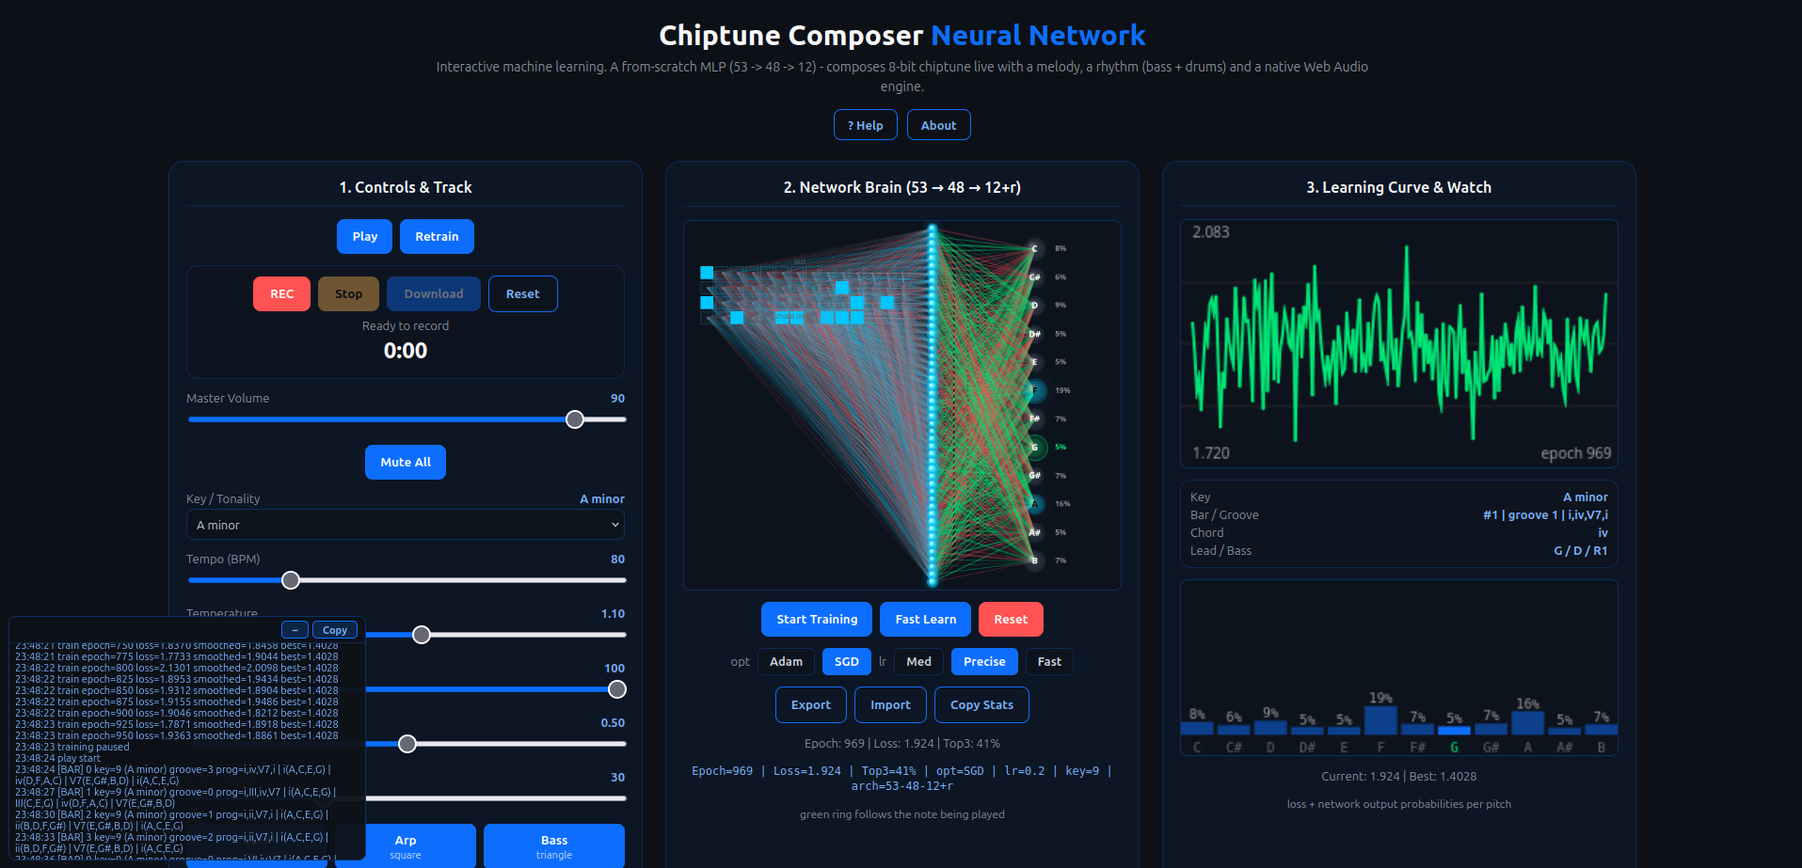
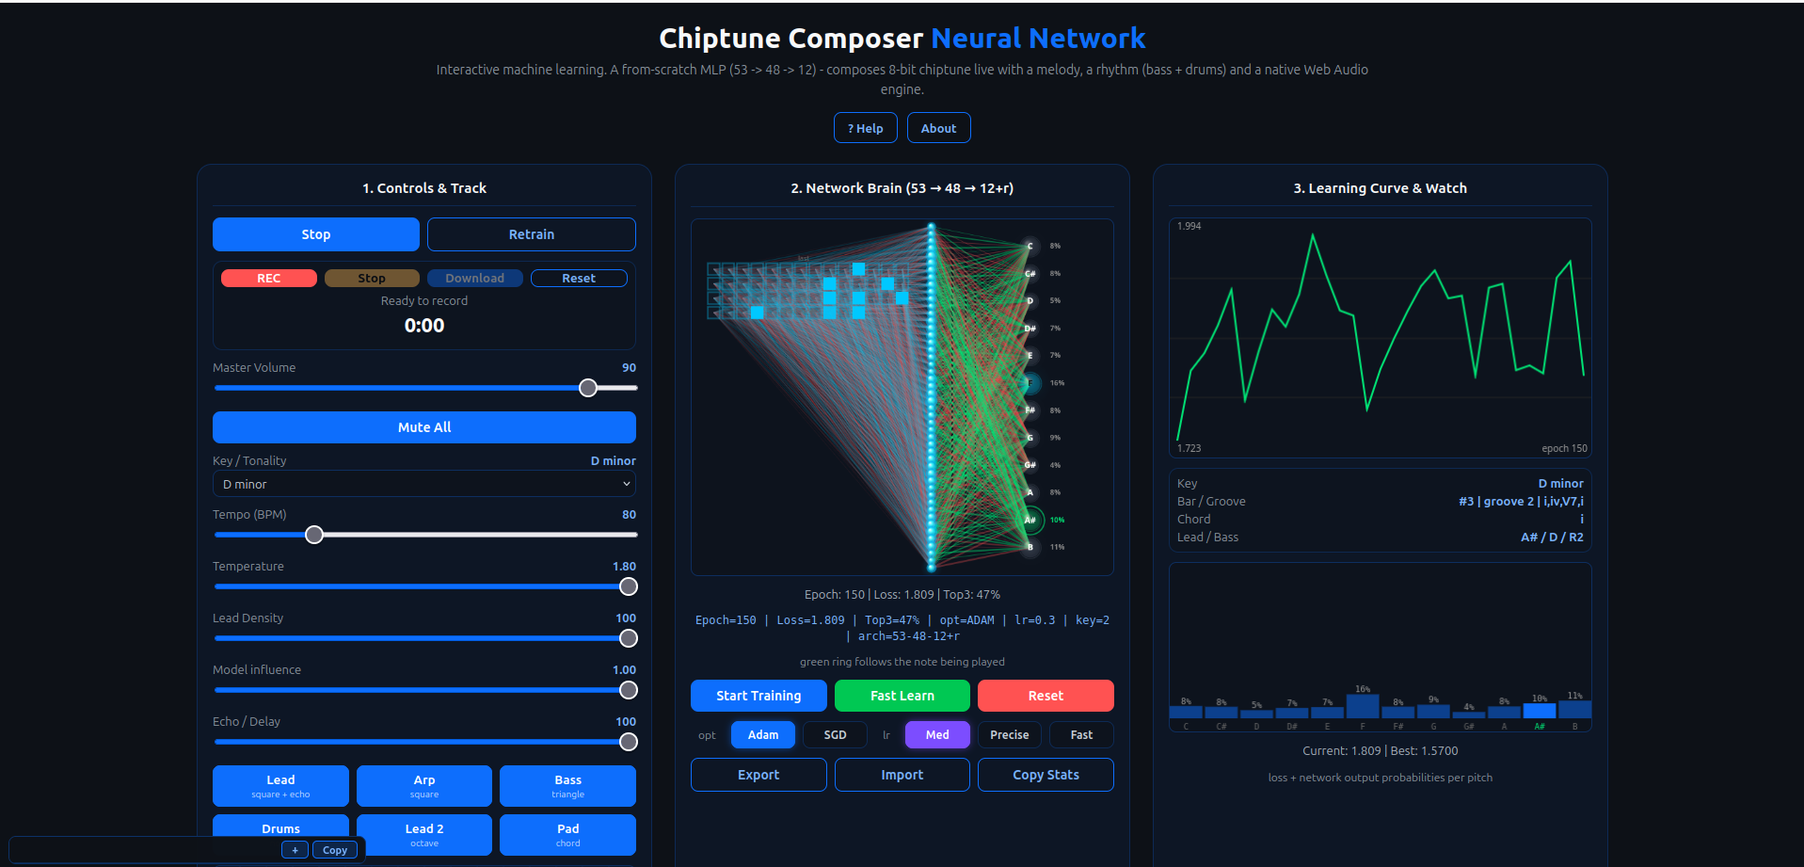
feat: improve chiptune-composer-neural-network.html

Changed region(s): [[0.0, 0.0, 1.0, 1.0], [0.6162, 0.1824, 0.8935, 0.6688]]

diff --git a/css/chiptune-composer-neural-network.css b/css/chiptune-composer-neural-network.css
@@ -1,110 +1,149 @@
-* { box-sizing: border-box; font-family: 'Segoe UI', system-ui, -apple-system, sans-serif; -webkit-tap-highlight-color: transparent; }
+* {
+    box-sizing: border-box;
+    font-family: 'Segoe UI', system-ui, -apple-system, sans-serif;
+    -webkit-tap-highlight-color: transparent;
+}
 html, body { margin: 0; }
 body { background: #0d1117; color: #e0e0e0; min-height: 100vh; padding: 20px; }
-.page { max-width: 1560px; margin: 0 auto; display: flex; flex-direction: column; align-items: center; width: 100%; }
+.page { max-width: 1500px; margin: 0 auto; display: flex; flex-direction: column; align-items: center; width: 100%; }
 .site-head { text-align: center; margin-bottom: 22px; max-width: 1000px; width: 100%; }
 .site-title { margin: 0 0 6px; font-size: 30px; font-weight: 800; color: #f8f9fa; }
 .site-title .hi { color: #0d6efd; }
 .site-sub { color: #8b949e; font-size: 14px; margin: 0 0 14px; line-height: 1.5; }
 .head-btns { display: flex; gap: 10px; justify-content: center; flex-wrap: wrap; }
+.head-btns button { background: transparent; color: #7ab3ff; border: 1px solid #0d6efd; padding: 8px 14px; font-size: 13px; border-radius: 8px; cursor: pointer; }
+.head-btns button:hover { background: rgba(13, 110, 253, 0.15); }
 
 .workspace { display: grid; grid-template-columns: repeat(3, minmax(0, 1fr)); gap: 24px; width: 100%; align-items: stretch; }
-.panel { background: rgba(13,110,253,0.06); border: 1px solid rgba(13,110,253,0.22); border-radius: 16px; padding: 18px; display: flex; flex-direction: column; gap: 12px; min-width: 0; }
-.panel h3 { margin: 0 0 2px; font-size: 16px; font-weight: 700; color: #f8f9fa; text-align: center; padding-bottom: 10px; border-bottom: 1px solid rgba(13,110,253,0.2); }
-.row { display: flex; flex-wrap: wrap; gap: 8px; justify-content: center; align-items: center; }
+.panel { background: rgba(13, 110, 253, 0.06); border: 1px solid rgba(13, 110, 253, 0.22); border-radius: 16px; padding: 16px; display: flex; flex-direction: column; gap: 10px; min-width: 0; }
+.panel h3 { margin: 0 0 2px; font-size: 15px; font-weight: 700; color: #f8f9fa; text-align: center; padding-bottom: 10px; border-bottom: 1px solid rgba(13, 110, 253, 0.2); }
 
 .canvas-area { display: flex; justify-content: center; width: 100%; }
-canvas { background: rgba(13,17,23,0.6); border-radius: 8px; border: 1px solid rgba(13,110,253,0.3); max-width: 100%; height: auto; display: block; }
-#netCanvas, #trackCanvas, #lossCanvas, #distCanvas { width: 100%; height: auto; }
+canvas { background: rgba(13, 17, 23, 0.6); border-radius: 8px; border: 1px solid rgba(13, 110, 253, 0.3); max-width: 100%; height: auto; display: block; }
+#netCanvas { width: 640px; max-width: 100%; }
+#trackCanvas, #lossCanvas, #distCanvas { width: 100%; height: auto; }
 
-button { border: none; border-radius: 8px; font-weight: 700; cursor: pointer; user-select: none; font-family: inherit; }
+button { border: none; border-radius: 8px; font-weight: 600; cursor: pointer; user-select: none; font-family: inherit; }
 button:disabled { opacity: 0.4; cursor: not-allowed; }
-.btn { padding: 11px 16px; }
+button:active { transform: scale(.97); }
+.btn { padding: 9px 12px; font-size: 14px; }
 .btn-primary { background: #0d6efd; color: #fff; }
-.btn-green { background: #0d6efd; color: #fff; }
+.btn-green { background: #00c853; color: #fff; }
+.btn-green:hover { background: #00b248; color: #fff; }
 .btn-red { background: #ff5252; color: #fff; }
+.btn-red:hover { background: #e64545; color: #fff; }
 .btn-info { background: transparent; color: #7ab3ff; border: 1px solid #0d6efd; }
-.head-btns button { background: transparent; color: #7ab3ff; border: 1px solid #0d6efd; padding: 8px 14px; font-size: 13px; }
-.head-btns button:hover, .btn-info:hover { background: rgba(13,110,253,0.15); }
-.opt-btn, .lr-btn { background: rgba(13,17,23,0.6); color: #c9d1d9; border: 1px solid rgba(13,110,253,0.25); border-radius: 6px; padding: 6px 12px; font-size: 13px; }
-.opt-btn.active, .lr-btn.active { background: #0d6efd; color: #fff; }
-.lbl { color: #8b949e; font-size: 13px; }
-button:active { transform: scale(.96); }
+.btn-info:hover { background: rgba(13, 110, 253, 0.15); }
+.btn-block { width: 100%; display: block; }
 
-.recbox { border: 1px solid rgba(13,110,253,0.22); border-radius: 12px; padding: 10px; background: rgba(13,17,23,0.4); display: flex; flex-direction: column; gap: 6px; }
+.btn-group { display: flex; flex-wrap: wrap; gap: 8px; width: 100%; }
+.btn-group > * { flex: 1 1 0; min-width: 0; border-radius: 8px; }
+.btn-group .lbl { flex: 0 0 auto; display: inline-flex; align-items: center; padding: 0 8px; }
+
+.opt-btn, .lr-btn {
+    background: rgba(13, 17, 23, 0.6);
+    color: #c9d1d9;
+    border: 1px solid rgba(13, 110, 253, 0.25);
+    border-radius: 8px;
+    padding: 7px 10px;
+    font-size: 12px;
+    cursor: pointer;
+}
+.opt-btn:hover, .lr-btn:hover { background: rgba(13, 110, 253, 0.15); color: #fff; }
+.opt-btn.active {
+    background: #0d6efd;
+    color: #fff;
+    border-color: #0d6efd;
+    font-weight: 700;
+    box-shadow: 0 0 8px rgba(13, 110, 253, 0.5);
+}
+.lr-btn.active {
+    background: #7c4dff;
+    color: #fff;
+    border-color: #7c4dff;
+    font-weight: 700;
+    box-shadow: 0 0 8px rgba(124, 77, 255, 0.5);
+}
+.lbl { color: #8b949e; font-size: 12px; white-space: nowrap; }
+
+.recbox { border: 1px solid rgba(13, 110, 253, 0.22); border-radius: 10px; padding: 8px; background: rgba(13, 17, 23, 0.4); display: flex; flex-direction: column; gap: 6px; }
 .rec-status { font-size: 13px; color: #8b949e; text-align: center; }
-.rec-time { font-size: 24px; font-weight: 800; color: #f8f9fa; text-align: center; font-variant-numeric: tabular-nums; }
-.rec-file { font-size: 12px; color: #7ab3ff; text-align: center; font-family: monospace; }
-.rec-btn { background: #ff5252; color: #fff; padding: 11px 18px; }
+.rec-time { font-size: 22px; font-weight: 800; color: #f8f9fa; text-align: center; font-variant-numeric: tabular-nums; }
+.rec-file { font-size: 11px; color: #7ab3ff; text-align: center; font-family: monospace; }
+.rec-btn { background: #ff5252; color: #fff; }
 .rec-btn.recording { animation: recblink 1s infinite; }
-@keyframes recblink { 0%,100% { box-shadow: 0 0 10px 2px rgba(255,60,50,.7); } 50% { box-shadow: 0 0 2px 0 rgba(255,60,50,.2); } }
-.stop-btn { background: #ffb74d; color: #000; padding: 11px 18px; }
-.dl-btn { background: #0d6efd; color: #fff; padding: 11px 18px; }
-.reset-btn { background: transparent; color: #7ab3ff; border: 1px solid #0d6efd; padding: 11px 18px; }
+@keyframes recblink {
+    0%, 100% { box-shadow: 0 0 10px 2px rgba(255, 60, 50, .7); }
+    50% { box-shadow: 0 0 2px 0 rgba(255, 60, 50, .2); }
+}
+.stop-btn { background: #ffb74d; color: #000; }
+.dl-btn { background: #0d6efd; color: #fff; }
+.reset-btn { background: transparent; color: #7ab3ff; border: 1px solid #0d6efd; }
 
-.slider label { display: flex; justify-content: space-between; font-size: 13px; color: #8b949e; margin-bottom: 4px; }
+.slider label { display: flex; justify-content: space-between; font-size: 13px; color: #8b949e; margin-bottom: 3px; }
 .slider label b { color: #7ab3ff; }
 input[type=range] { width: 100%; accent-color: #0d6efd; cursor: pointer; }
-select { width: 100%; padding: 8px 10px; background: rgba(13,17,23,0.6); color: #c9d1d9; border: 1px solid rgba(13,110,253,0.3); border-radius: 8px; font-size: 13px; cursor: pointer; }
+select { width: 100%; padding: 6px 10px; background: rgba(13, 17, 23, 0.6); color: #c9d1d9; border: 1px solid rgba(13, 110, 253, 0.3); border-radius: 8px; font-size: 13px; cursor: pointer; }
 
 .mutes { display: grid; grid-template-columns: repeat(3, 1fr); gap: 8px; }
-.mute { background: rgba(13,17,23,0.6); color: #7ab3ff; border: 1px solid rgba(13,110,253,0.3); border-radius: 8px; padding: 9px; display: flex; flex-direction: column; }
-.mute .d { color: #8b949e; font-size: 11px; font-weight: 400; margin-top: 2px; }
+.mute { background: rgba(13, 17, 23, 0.6); color: #7ab3ff; border: 1px solid rgba(13, 110, 253, 0.3); border-radius: 8px; padding: 7px; display: flex; flex-direction: column; }
+.mute .d { color: #8b949e; font-size: 10px; font-weight: 400; margin-top: 2px; }
 .mute.on { background: #0d6efd; color: #fff; border-color: #0d6efd; }
-.mute.on .d { color: rgba(255,255,255,0.8); }
+.mute.on .d { color: rgba(255, 255, 255, 0.8); }
 
-.legend { display: flex; gap: 12px; justify-content: center; font-size: 12px; color: #8b949e; flex-wrap: wrap; }
+.legend { display: flex; gap: 10px; justify-content: center; font-size: 11px; color: #8b949e; flex-wrap: wrap; }
 .legend span { display: inline-flex; align-items: center; gap: 5px; }
 .legend i { width: 10px; height: 10px; border-radius: 2px; display: inline-block; }
-.bars { display: flex; gap: 6px; align-items: flex-end; justify-content: center; height: 40px; }
-.bar { width: 100%; flex: 1; background: rgba(13,110,253,0.15); border-radius: 4px; display: flex; align-items: flex-end; overflow: hidden; }
-.bar i { display: block; width: 100%; background: linear-gradient(180deg,#0d6efd,#58a6ff); height: 0%; border-radius: 4px; }
-.bar[data-ch="3"] i { background: linear-gradient(180deg,#f0ad4e,#ff7b3a); }
-.bar[data-ch="4"] i { background: linear-gradient(180deg,#2ee6a8,#00e676); }
-.bar[data-ch="5"] i { background: linear-gradient(180deg,#b388ff,#7c4dff); }
+.bars { display: flex; gap: 6px; align-items: flex-end; justify-content: center; height: 36px; }
+.bar { width: 100%; flex: 1; background: rgba(13, 110, 253, 0.15); border-radius: 4px; display: flex; align-items: flex-end; overflow: hidden; }
+.bar i { display: block; width: 100%; background: linear-gradient(180deg, #0d6efd, #58a6ff); height: 0%; border-radius: 4px; }
+.bar[data-ch="3"] i { background: linear-gradient(180deg, #f0ad4e, #ff7b3a); }
+.bar[data-ch="4"] i { background: linear-gradient(180deg, #2ee6a8, #00e676); }
+.bar[data-ch="5"] i { background: linear-gradient(180deg, #b388ff, #7c4dff); }
 
-.status-box { border: 1px solid rgba(13,110,253,0.22); border-radius: 12px; padding: 10px; background: rgba(13,17,23,0.4); display: flex; flex-direction: column; gap: 4px; width: 100%; }
+.status-box { border: 1px solid rgba(13, 110, 253, 0.22); border-radius: 10px; padding: 8px; background: rgba(13, 17, 23, 0.4); display: flex; flex-direction: column; gap: 4px; width: 100%; }
 .status-box .s-row { display: flex; justify-content: space-between; gap: 10px; font-size: 13px; }
 .status-box .s-row span { color: #8b949e; }
 .status-box .s-row b { color: #7ab3ff; }
 
-.stats { font-size: 13px; color: #8b949e; text-align: center; line-height: 1.4; }
+.stats { font-size: 13px; color: #aab4bf; text-align: center; line-height: 1.4; }
 .stats.raw { color: #7ab3ff; font-family: monospace; font-size: 12px; cursor: pointer; }
 .hint { font-size: 12px; color: #8b949e; text-align: center; line-height: 1.5; }
+.toast { opacity: 0; transform: translateY(4px); transition: opacity .2s, transform .2s; background: #1f3227; border: 1px solid #00e676; color: #00e676; font-weight: bold; border-radius: 8px; padding: 7px 13px; margin-top: 8px; font-size: 13px; text-align: center; }
+.toast.show { opacity: 1; transform: translateY(0); }
 
-.modal-overlay { display: none; position: fixed; inset: 0; background: rgba(0,0,0,0.75); z-index: 100; padding: 16px; overflow-y: auto; }
+.modal-overlay { display: none; position: fixed; inset: 0; background: rgba(0, 0, 0, 0.75); z-index: 100; padding: 16px; overflow-y: auto; }
 .modal-overlay.open { display: flex; align-items: flex-start; justify-content: center; }
-.modal { position: relative; background: #161b22; border: 1px solid rgba(13,110,253,0.3); border-radius: 12px; max-width: 560px; width: 100%; padding: 20px; margin: 20px auto; max-height: calc(100vh - 40px); overflow-y: auto; }
+.modal { position: relative; background: #161b22; border: 1px solid rgba(13, 110, 253, 0.3); border-radius: 12px; max-width: 560px; width: 100%; padding: 20px; margin: 20px auto; max-height: calc(100vh - 40px); overflow-y: auto; }
 .modal h3 { color: #7ab3ff; margin: 0 30px 12px 0; }
 .modal p, .modal li { font-size: 14px; line-height: 1.55; color: #c9d1d9; }
 .modal ol, .modal ul { padding-left: 22px; margin: 8px 0; }
 .modal b { color: #fff; }
 .modal .accent { color: #58a6ff; font-weight: bold; }
-.modal-close { position: absolute; top: 10px; right: 10px; padding: 6px 12px; background: rgba(13,17,23,0.6); color: #fff; border: 1px solid rgba(13,110,253,0.3); border-radius: 6px; font-size: 16px; }
-.ab-head { border-bottom: 1px solid rgba(13,110,253,0.25); padding-bottom: 10px; margin-bottom: 12px; }
+.modal-close { position: absolute; top: 10px; right: 10px; padding: 6px 12px; background: rgba(13, 17, 23, 0.6); color: #fff; border: 1px solid rgba(13, 110, 253, 0.3); border-radius: 6px; font-size: 16px; cursor: pointer; }
+.ab-head { border-bottom: 1px solid rgba(13, 110, 253, 0.25); padding-bottom: 10px; margin-bottom: 12px; }
 .ab-name { font-size: 18px; font-weight: bold; color: #fff; }
 .ab-ver { font-size: 13px; color: #7ab3ff; margin-top: 2px; }
-.ab-meta { margin-top: 14px; padding-top: 12px; border-top: 1px solid rgba(13,110,253,0.2); font-size: 13px; color: #c9d1d9; line-height: 1.7; }
+.ab-meta { margin-top: 14px; padding-top: 12px; border-top: 1px solid rgba(13, 110, 253, 0.2); font-size: 13px; color: #c9d1d9; line-height: 1.7; }
 .ab-meta a { color: #7ab3ff; text-decoration: none; }
 .ab-meta a:hover { text-decoration: underline; }
 .site-foot { margin-top: 24px; text-align: center; font-size: 13px; color: #8b949e; }
 .site-foot a { color: #7ab3ff; text-decoration: none; }
 
 @media (max-width: 1000px) and (orientation: portrait) {
-  body { padding: 10px; }
-  .site-head { margin-bottom: 14px; }
-  .workspace { grid-template-columns: 1fr; gap: 16px; }
-  .panel { padding: 14px; }
-  .site-title { font-size: 24px; }
+    body { padding: 10px; }
+    .site-head { margin-bottom: 14px; }
+    .workspace { grid-template-columns: 1fr; gap: 16px; }
+    .panel { padding: 14px; }
+    .site-title { font-size: 24px; }
 }
 @media (max-width: 1350px) and (min-width: 1001px) {
-  .workspace { gap: 16px; }
-  .panel { padding: 14px; }
+    .workspace { gap: 16px; }
+    .panel { padding: 14px; }
 }
 @media (max-width: 1000px) and (orientation: landscape) {
-  body { padding: 12px 16px; }
-  .workspace { grid-template-columns: repeat(3, minmax(0,1fr)); gap: 12px; }
-  .panel { padding: 12px; }
-  .mutes { grid-template-columns: repeat(2,1fr); }
-  button { padding: 10px 12px; font-size: 14px; }
+    body { padding: 12px 16px; }
+    .workspace { grid-template-columns: repeat(3, minmax(0, 1fr)); gap: 12px; }
+    .panel { padding: 12px; }
+    .mutes { grid-template-columns: repeat(2, 1fr); }
 }

diff --git a/js/chiptune-composer-neural-network.js b/js/chiptune-composer-neural-network.js
@@ -323,6 +323,22 @@ var netCanvas=document.getElementById('netCanvas'), nCtx=netCanvas.getContext('2
 var lossCanvas=document.getElementById('lossCanvas'), lCtx=lossCanvas.getContext('2d');
 var trackCanvas=document.getElementById('trackCanvas'), tCtx=trackCanvas.getContext('2d');
 var distCanvas=document.getElementById('distCanvas'), dCtx=distCanvas?distCanvas.getContext('2d'):null;
+var DPR = window.devicePixelRatio || 1;
+var NET_W = netCanvas.width, NET_H = netCanvas.height;
+var fitTimer = 0;
+function fitCanvases() {
+  var r;
+  netCanvas.width = Math.round(NET_W * DPR);
+  netCanvas.height = Math.round(NET_H * DPR);
+  nCtx.setTransform(DPR, 0, 0, DPR, 0, 0);
+  r = trackCanvas.getBoundingClientRect();
+  if (r.width > 0) { trackCanvas.width = Math.round(r.width * DPR); trackCanvas.height = Math.round(r.width * 220 / 620 * DPR); }
+  r = lossCanvas.getBoundingClientRect();
+  if (r.width > 0) { lossCanvas.width = Math.round(r.width * DPR); lossCanvas.height = Math.round(r.width * 170 / 300 * DPR); }
+  r = distCanvas.getBoundingClientRect();
+  if (r.width > 0) { distCanvas.width = Math.round(r.width * DPR); distCanvas.height = Math.round(r.width * 120 / 300 * DPR); }
+}
+window.addEventListener('resize', function () { clearTimeout(fitTimer); fitTimer = setTimeout(fitCanvases, 60); });
 var barsWrap=document.getElementById('barsWrap'), barEls=[];
 (function(){ for(var i=0;i<6;i++){ var d=document.createElement('div'); d.className='bar'; d.setAttribute('data-ch',i); d.innerHTML='<i></i>'; barsWrap.appendChild(d); } barEls=Array.prototype.slice.call(barsWrap.children); })();
 var barAct=[[0,0],[0,0],[0,0],[0,0],[0,0],[0,0]];
@@ -332,11 +348,11 @@ function drawSynapse(a,b,w,pos,neg,maxW,wMax){ nCtx.beginPath(); nCtx.moveTo(a.x
 function drawOrb(x,y,v,baseR,phase,col){ if(!isFinite(v)) v=0; var a=Math.max(0,Math.min(1,v)); var pulse=1+0.1*Math.sin(anim*3.4+phase); var rad=Math.max(2,baseR*(0.6+0.85*a)*pulse); if(!isFinite(rad)) rad=baseR; var halo=rad*2.9,g; g=nCtx.createRadialGradient(x,y,rad*0.2,x,y,halo); g.addColorStop(0,rgba(col[0],col[1],col[2],0.4*a)); g.addColorStop(0.6,rgba(col[0],col[1],col[2],0.12*a)); g.addColorStop(1,rgba(col[0],col[1],col[2],0)); nCtx.fillStyle=g; nCtx.beginPath(); nCtx.arc(x,y,halo,0,Math.PI*2); nCtx.fill(); g=nCtx.createRadialGradient(x-rad*0.35,y-rad*0.4,rad*0.1,x,y,rad); g.addColorStop(0,'rgba(255,255,255,0.95)'); g.addColorStop(0.38,rgba(Math.min(255,col[0]+80),Math.min(255,col[1]+80),Math.min(255,col[2]+80),0.95)); g.addColorStop(1,rgba(col[0],col[1],col[2],0.6)); nCtx.fillStyle=g; nCtx.beginPath(); nCtx.arc(x,y,rad,0,Math.PI*2); nCtx.fill(); nCtx.beginPath(); nCtx.arc(x,y,rad*1.16,0,Math.PI*2); nCtx.strokeStyle=rgba(col[0],col[1],col[2],0.3+0.55*a); nCtx.lineWidth=1+1.4*a; nCtx.stroke(); }
 function drawOutputOrb(x,y,v,baseR,phase,col,winner){ if(!isFinite(v)) v=0; var a=Math.max(0,Math.min(1,v)); var pulse=1+0.1*Math.sin(anim*2.8+phase*1.1)+(winner?0.1*Math.sin(anim*7):0); var rad=baseR*(0.55+0.6*a)*pulse; if(!isFinite(rad)) rad=baseR; var halo=rad*2.1,g; g=nCtx.createRadialGradient(x,y,rad*0.2,x,y,halo); g.addColorStop(0,rgba(col[0],col[1],col[2],0.32*a)); g.addColorStop(1,rgba(col[0],col[1],col[2],0)); nCtx.fillStyle=g; nCtx.beginPath(); nCtx.arc(x,y,halo,0,Math.PI*2); nCtx.fill(); g=nCtx.createRadialGradient(x-rad*0.32,y-rad*0.38,rad*0.1,x,y,rad); g.addColorStop(0,rgba(255,255,255,0.3+0.4*a)); g.addColorStop(0.5,rgba(col[0],col[1],col[2],0.3+0.55*a)); g.addColorStop(1,rgba(col[0],col[1],col[2],0.2+0.45*a)); nCtx.fillStyle=g; nCtx.beginPath(); nCtx.arc(x,y,rad,0,Math.PI*2); nCtx.fill(); nCtx.beginPath(); nCtx.arc(x,y,rad*1.1,0,Math.PI*2); nCtx.strokeStyle=rgba(col[0],col[1],col[2],0.25+0.6*a); nCtx.lineWidth=1+1.6*a; nCtx.stroke(); if(winner){ var wr=rad*1.34+2.5*Math.sin(anim*5); nCtx.beginPath(); nCtx.arc(x,y,wr,0,Math.PI*2); nCtx.strokeStyle=rgba(0,230,118,0.45+0.3*Math.sin(anim*5)); nCtx.lineWidth=2; nCtx.stroke(); } }
 function drawNetwork(){
-  nCtx.clearRect(0,0,netCanvas.width,netCanvas.height);
+  nCtx.clearRect(0,0,NET_W,NET_H);
   var isMobile=window.innerWidth<=BREAKPOINT, cols=14, rows=4, cell=isMobile?16:19, gap=3, gx0=24, gy0=66, inPts=[];
   for(var r=0;r<rows;r++) for(var c=0;c<cols;c++){ var idx=r*cols+c; if(idx>=IN) break; inPts.push({x:gx0+c*(cell+gap),y:gy0+r*(cell+gap),act:nn.lastIn[idx]}); }
-  var hidX=gx0+cols*(cell+gap)+32, hidStep=netCanvas.height/(HID+1), hidY=[]; for(var i=0;i<HID;i++) hidY.push(hidStep*(i+1));
-  var outX=hidX+150, outStep=netCanvas.height/(OUT+1), wMax=0.001;
+  var hidX=gx0+cols*(cell+gap)+32, hidStep=NET_H/(HID+1), hidY=[]; for(var i=0;i<HID;i++) hidY.push(hidStep*(i+1));
+  var outX=hidX+150, outStep=NET_H/(OUT+1), wMax=0.001;
   for(var i=0;i<HID;i++) for(var j=0;j<IN;j++){ var aw=Math.abs(nn.wIH[i][j]); if(aw>wMax) wMax=aw; }
   for(var k=0;k<OUT;k++) for(var j=0;j<HID;j++){ var aw2=Math.abs(nn.wHO[k][j]); if(aw2>wMax) wMax=aw2; }
   for(var i=0;i<HID;i++) for(var j=0;j<inPts.length;j++) drawSynapse({x:inPts[j].x+cell/2,y:inPts[j].y+cell/2},{x:hidX,y:hidY[i]},nn.wIH[i][j],'rgba(0,210,255,0.14)','rgba(255,82,82,0.14)',1.8,wMax);
@@ -452,4 +468,5 @@ function loop(){ anim=performance.now()/1000; if(isTraining) trainOneEpoch(); ac
 function startupTrain(){ genData(); log('init: arch=53-48-12+rhy key='+TONIC+' opt='+nn.opt+' lr='+nn.lr); function step(){ for(var e=0;e<2&&epoch<RUN_EPOCHS;e++) trainOneEpoch(); updateStats(); if(epoch<RUN_EPOCHS) setTimeout(step,0); } setTimeout(step,0); }
 updateRecUI();
 startupTrain();
+fitCanvases();
 loop();

diff --git a/chiptune-composer-neural-network.html b/chiptune-composer-neural-network.html
@@ -21,12 +21,12 @@
 <div class="workspace">
     <section class="panel">
         <h3>1. Controls &amp; Track</h3>
-        <div class="row">
+        <div class="btn-group">
             <button type="button" class="btn btn-primary" id="playBtn" onclick="togglePlay()">Play</button>
-            <button type="button" class="btn btn-green" onclick="retrainNow()">Retrain</button>
+            <button type="button" class="btn btn-info" onclick="retrainNow()">Retrain</button>
         </div>
         <div class="recbox">
-            <div class="row">
+            <div class="btn-group">
                 <button type="button" class="rec-btn" id="recBtn" onclick="recStart()">REC</button>
                 <button type="button" class="stop-btn" id="recStopBtn" onclick="stopWav()" disabled>Stop</button>
                 <button type="button" class="dl-btn" id="recDlBtn" onclick="downloadWav()" disabled>Download</button>
@@ -40,9 +40,7 @@
             <label>Master Volume <b id="volVal">90</b></label>
             <input type="range" id="volSlider" min="0" max="100" value="90" oninput="setMaster()">
         </div>
-        <div class="row">
-            <button type="button" class="btn btn-primary" id="muteAllBtn" onclick="toggleMaster()">Mute All</button>
-        </div>
+        <button type="button" class="btn btn-primary btn-block" id="muteAllBtn" onclick="toggleMaster()">Mute All</button>
         <div class="slider">
             <label>Key / Tonality <b id="keyName">A minor</b></label>
             <select id="keySelect" onchange="setKey(+this.value)">
@@ -99,12 +97,15 @@
         <div class="canvas-area">
             <canvas id="netCanvas" width="640" height="540"></canvas>
         </div>
-        <div class="row">
+        <div class="stats" id="trainStats">Epoch: 0 | Loss: - | Top3: -</div>
+        <div class="stats raw" id="rawStats" title="Click to copy" onclick="copyStats()"></div>
+        <div class="hint">green ring follows the note being played</div>
+        <div class="btn-group">
             <button type="button" class="btn btn-primary" id="trainBtn" onclick="toggleTrain()">Start Training</button>
             <button type="button" class="btn btn-green" onclick="trainEpochs(120)">Fast Learn</button>
             <button type="button" class="btn btn-red" onclick="resetNetwork()">Reset</button>
         </div>
-        <div class="row">
+        <div class="btn-group">
             <span class="lbl">opt</span>
             <button type="button" class="opt-btn" data-opt="adam" onclick="setOpt('adam',this)">Adam</button>
             <button type="button" class="opt-btn active" data-opt="sgd" onclick="setOpt('sgd',this)">SGD</button>
@@ -113,15 +114,13 @@
             <button type="button" class="lr-btn active" data-lr="0.2" onclick="setLR(0.2,this)">Precise</button>
             <button type="button" class="lr-btn" data-lr="0.6" onclick="setLR(0.6,this)">Fast</button>
         </div>
-        <div class="row">
+        <div class="btn-group">
             <button type="button" class="btn btn-info" onclick="exportModel()">Export</button>
             <button type="button" class="btn btn-info" onclick="importModel()">Import</button>
-            <input type="file" id="modelFile" accept="application/json" style="display:none" onchange="onImportFile(event)">
             <button type="button" class="btn btn-info" onclick="copyStats()">Copy Stats</button>
         </div>
-        <div class="stats" id="trainStats">Epoch: 0 | Loss: - | Top3: -</div>
-        <div class="stats raw" id="rawStats" title="Click to copy" onclick="copyStats()"></div>
-        <div class="hint">green ring follows the note being played</div>
+        <input type="file" id="modelFile" accept="application/json" style="display:none" onchange="onImportFile(event)">
+        <div class="toast" id="toast"></div>
     </section>
 
     <section class="panel">
